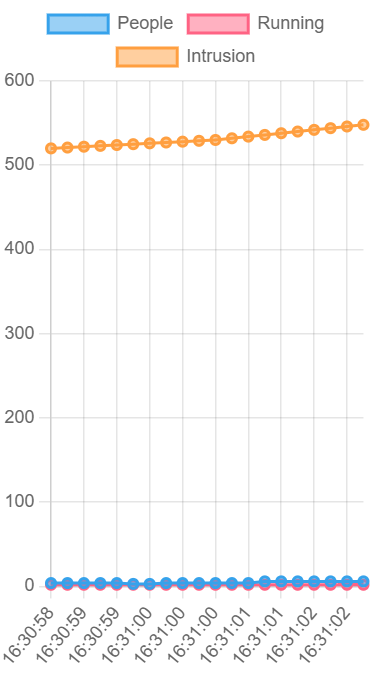
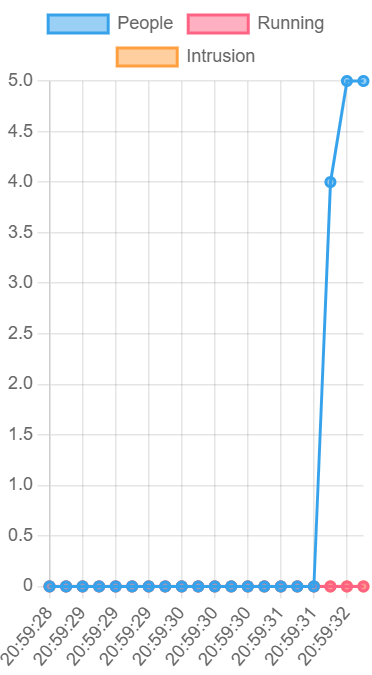
Final AI Surveillance System with detection, tracking, alerts, heatmap, analytics, and report

diff --git a/app.py b/app.py
@@ -9,6 +9,8 @@ import webbrowser
 import threading
 import base64
 import os
+import winsound   # (Windows only)
+import pywhatkit 
 
 from reportlab.platypus import SimpleDocTemplate, Paragraph, Spacer, Image
 from reportlab.lib.styles import getSampleStyleSheet
@@ -55,6 +57,10 @@ time_history = []
 
 event_log = []
 track_positions = {}
+alert_cooldown = {}
+
+
+whatsapp_alerted_ids = set()
 
 # =========================
 # EMAIL SIMULATION
@@ -144,7 +150,7 @@ def generate_frames():
             tracks = tracker.update_tracks(detections, frame=frame)
 
             for track in tracks:
-
+        
                 if not track.is_confirmed():
                     continue
 
@@ -170,7 +176,33 @@ def generate_frames():
 
                     if dist > 80:
 
+                     if track_id not in alert_cooldown:
+
+                        winsound.Beep(1000, 500)
+
+                         # 📱 WHATSAPP ALERT
+                        pywhatkit.sendwhatmsg_instantly(
+                           "+91 8590723110",
+                          f"🚨 Running detected! ID: {track_id}",
+                         wait_time=10
+        )
+
                         running_count += 1
+                        alert_cooldown[track_id] = time.time()
+
+                        winsound.Beep(1000, 500)  # 🔊 SOUND ALERT
+
+                        running_count += 1
+                        alert_cooldown[track_id] = time.time()
+
+                        t = time.strftime("%Y%m%d_%H%M%S")
+                        filename = f"evidence/screenshots/running_ID{track_id}_{t}.jpg"
+                        cv2.imwrite(filename, frame)
+
+                        event_log.append(f"[{time.strftime('%H:%M:%S')}] Running - ID {track_id}")
+
+                        running_count += 1
+                        alert_cooldown[track_id] = time.time()
 
                         t = time.strftime("%Y%m%d_%H%M%S")
                         filename = f"evidence/screenshots/running_ID{track_id}_{t}.jpg"
@@ -179,22 +211,48 @@ def generate_frames():
                         event_log.append(f"[{time.strftime('%H:%M:%S')}] Running - ID {track_id}")
 
                         cv2.putText(frame, "RUNNING", (x1,y1-40),
-                                    cv2.FONT_HERSHEY_SIMPLEX, 0.8, (0,0,255), 2)
+                              cv2.FONT_HERSHEY_SIMPLEX, 0.8, (0,0,255), 2)
 
                 # =========================
                 # INTRUSION + SCREENSHOT
                 # =========================
+                global whatsapp_sent
+
                 if zone_x1 < cx < zone_x2 and zone_y1 < cy < zone_y2:
 
-                    intrusion_count += 1
+                   if track_id not in alert_cooldown:
 
-                    t = time.strftime("%Y%m%d_%H%M%S")
-                    filename = f"evidence/screenshots/intrusion_ID{track_id}_{t}.jpg"
-                    cv2.imwrite(filename, frame)
+                     winsound.Beep(1500, 700)
 
-                    event_log.append(f"[{time.strftime('%H:%M:%S')}] Intrusion - ID {track_id}")
+                     # 📱 WHATSAPP ALERT (PASTE HERE)
+                     if track_id not in whatsapp_alerted_ids:
 
-                    cv2.rectangle(frame,(x1,y1),(x2,y2),(0,0,255),3)
+                       current_time = time.strftime("%H:%M:%S")
+
+                       pywhatkit.sendwhatmsg_instantly(
+                        "+91 828158714 ",
+                        f"🚨 Intrusion detected!\n"
+                        f"ID: {track_id}\n"
+                          f"Location: Main Gate, College Campus\n"
+                           f"Time: {current_time}",
+                          wait_time=10
+                    )
+
+                     whatsapp_alerted_ids.add(track_id)
+
+                intrusion_count += 1
+                alert_cooldown[track_id] = time.time()
+
+                t = time.strftime("%Y%m%d_%H%M%S")
+                filename = f"evidence/screenshots/intrusion_ID{track_id}_{t}.jpg"
+                cv2.imwrite(filename, frame)
+
+                event_log.append(f"[{time.strftime('%H:%M:%S')}] Intrusion - ID {track_id}")
+
+                
+                cv2.rectangle(frame,(x1,y1),(x2,y2),(0,0,255),3)
+                     
+                    
 
                 track_positions[track_id] = (cx,cy)
 
@@ -243,7 +301,8 @@ def stats():
         "people": total_people,
         "threat": threat_level,
         "intrusions": intrusion_count,
-        "running": running_count
+        "running": running_count,
+        "fights":fight_count
     })
 
 @app.route('/api/alerts')
